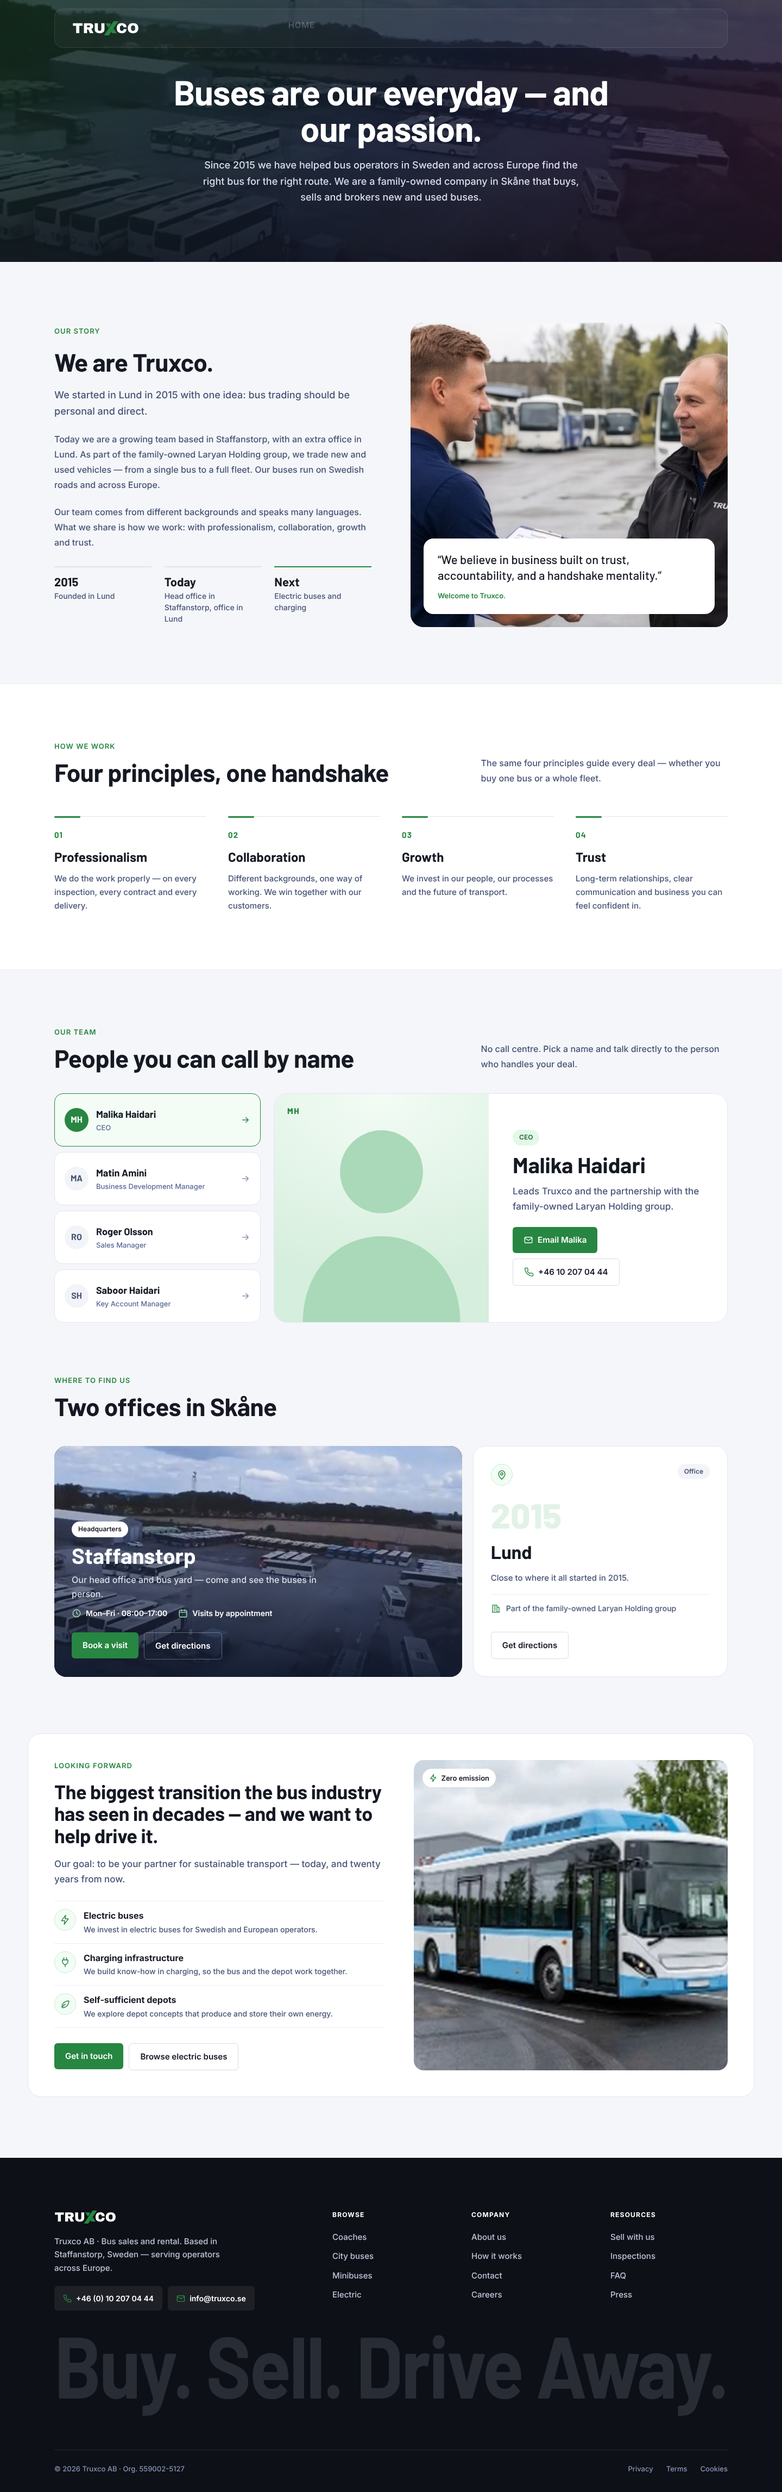
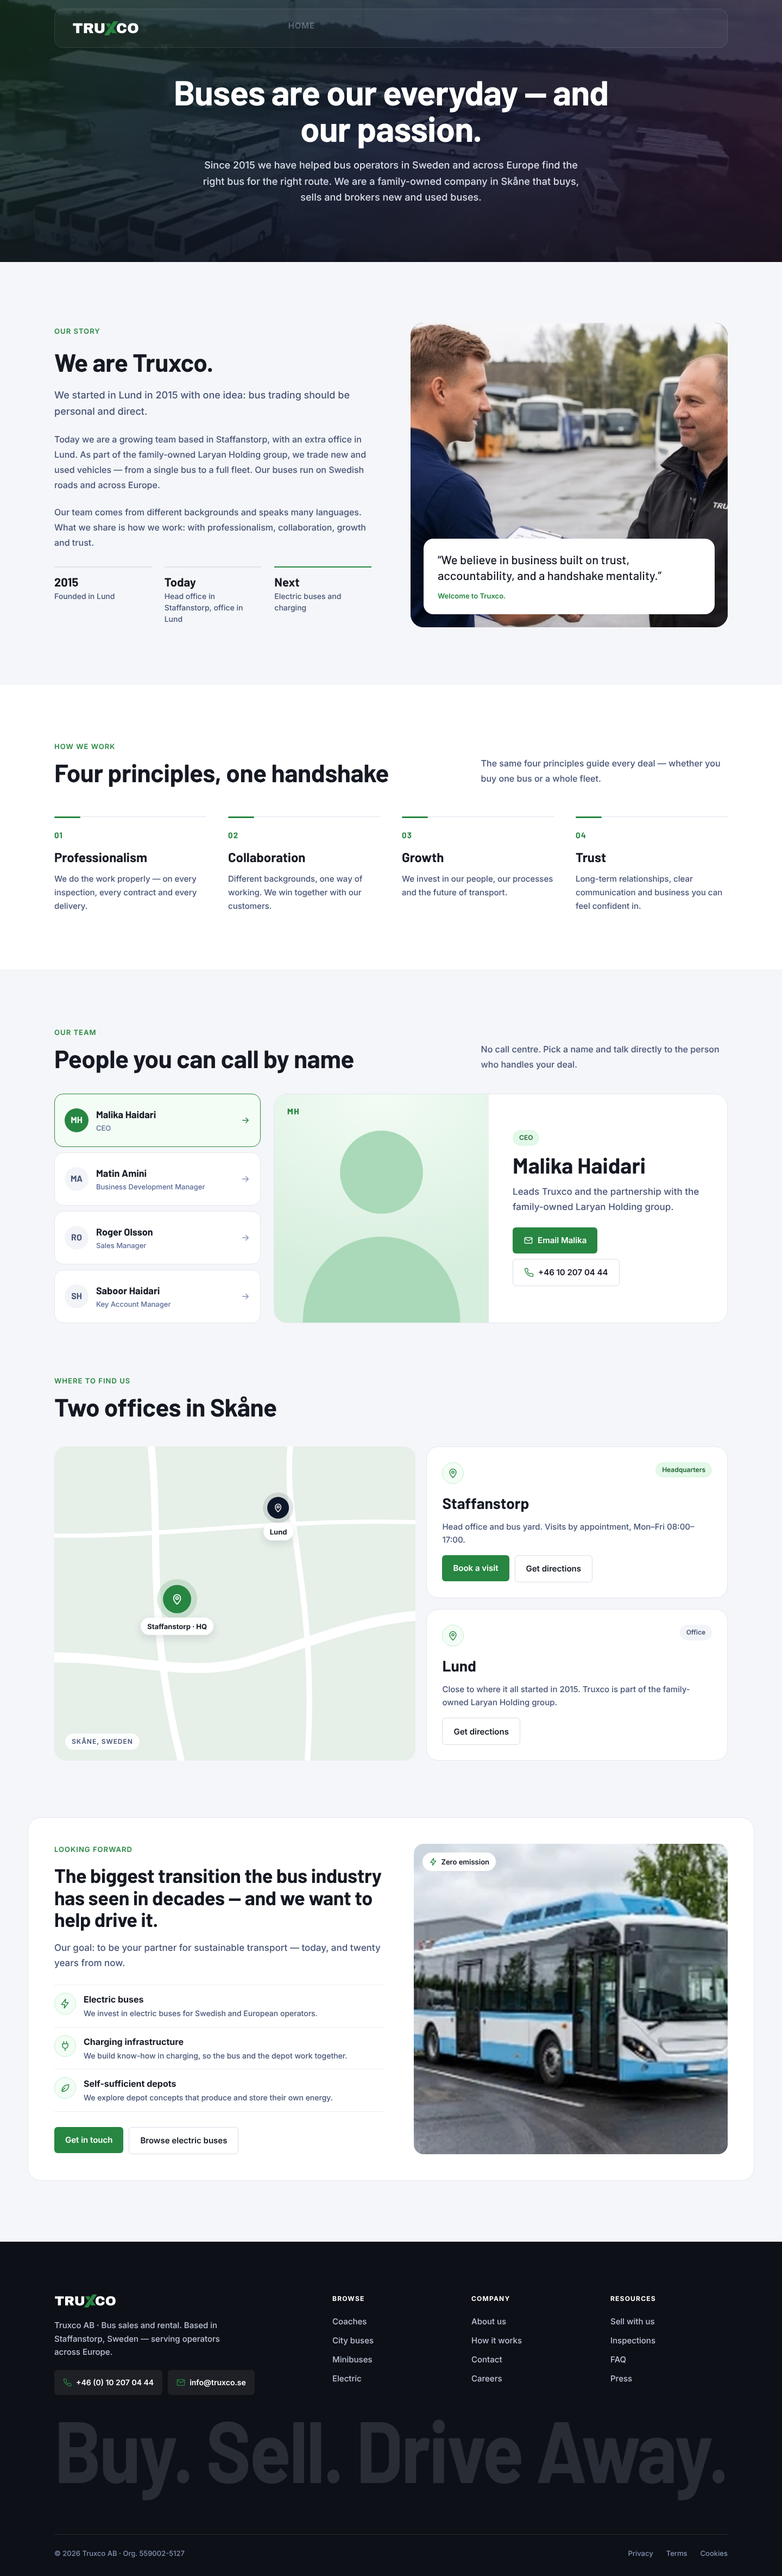
About us: offices section switched to map view (option C)
Claude-Session: https://claude.ai/code/session_01CJrfSMbtJkdqaRmDBKHX4E

diff --git a/truxco-design/website-v2/AboutUs.dc.html b/truxco-design/website-v2/AboutUs.dc.html
@@ -380,6 +380,25 @@ a{color:#3050A6}a:hover{color:#151923}
 .ofc-note{display:flex;gap:10px;align-items:center;font-size:14px;color:#475476;padding:14px 0;border-top:1px solid #ECEEF4;margin-top:8px}
 @media (max-width: 860px){.ofc-grid{grid-template-columns:minmax(0,1fr)}.ofc-hq{min-height:460px}}
 @media (max-width: 600px){.ofc-in,.ofc-lund{padding:24px}.ofc-in h3{font-size:32px}}
+
+.ofm-grid{display:grid;grid-template-columns:minmax(0,1.2fr) minmax(0,1fr);gap:20px}
+.ofm-map{position:relative;border-radius:22px;overflow:hidden;min-height:440px;background:#E6EFE8}
+.ofm-roads{position:absolute;inset:0;width:100%;height:100%}
+.ofm-pin{position:absolute;transform:translate(-50%,-100%);display:flex;flex-direction:column;align-items:center;gap:8px}
+.ofm-pd{width:52px;height:52px;border-radius:50%;background:#278641;display:flex;align-items:center;justify-content:center;box-shadow:0 0 0 10px rgba(39,134,65,.18);animation:ofmPing 2.4s ease-in-out infinite}
+.ofm-pd.small{width:40px;height:40px;background:#0E162A;box-shadow:0 0 0 8px rgba(14,22,42,.12);animation:none}
+@keyframes ofmPing{50%{box-shadow:0 0 0 16px rgba(39,134,65,.1)}}
+.ofm-pl{font-size:13px;font-weight:700;color:#151923;background:#FFFFFF;padding:6px 12px;border-radius:999px;box-shadow:0 6px 16px rgba(14,22,42,.12);white-space:nowrap}
+.ofm-region{position:absolute;left:20px;bottom:20px;font-size:12px;font-weight:600;letter-spacing:.08em;text-transform:uppercase;color:#475476;background:rgba(255,255,255,.88);padding:6px 12px;border-radius:999px}
+.ofm-list{display:flex;flex-direction:column;gap:20px}
+.ofm-row{flex:1;background:#FFFFFF;border:1px solid #E3E6EE;border-radius:22px;padding:28px;display:flex;flex-direction:column;gap:10px}
+.ofm-top{display:flex;justify-content:space-between;align-items:center;margin-bottom:4px}
+.ofm-row h3{margin:0;font-family:'Barlow',sans-serif;font-weight:700;font-size:28px;color:#151923}
+.ofm-row p{margin:0;font-size:15px;line-height:1.6;color:#475476}
+.ofm-row .ab-row{margin-top:auto;padding-top:6px}
+@media (prefers-reduced-motion: reduce){.ofm-pd{animation:none}}
+@media (max-width: 860px){.ofm-grid{grid-template-columns:minmax(0,1fr)}.ofm-map{min-height:320px}}
+@media (max-width: 600px){.ofm-row{padding:24px}}
 </style>
 </helmet>
 <div id="tx-root" style="position: relative; font-family: Inter, system-ui, sans-serif; color: #151923; background: #F5F6F9; font-size: 16px; font-weight: 500; line-height: 1.55">
@@ -511,12 +530,17 @@ a{color:#3050A6}a:hover{color:#151923}
 <section id="offices" class="ab-sec" aria-labelledby="ab-off-h" style="padding: 0 24px 104px">
 <div class="ab-wrap" style="display: flex; flex-direction: column; gap: 48px">
 <div style="display: flex; flex-direction: column; gap: 14px"><span class="ab-eyebrow">Where to find us</span><h2 id="ab-off-h" class="ab-h2">Two offices in Skåne</h2></div>
-<div class="ofc-grid">
-<article class="ofc-hq"><img src="/_blob/c412b4374d734066a683e1b2284738be" alt="The Truxco bus yard in Staffanstorp"><div aria-hidden="true" class="ofc-shade"></div>
-<div class="ofc-in"><span class="ofc-tagw">Headquarters</span><h3>Staffanstorp</h3><p>Our head office and bus yard — come and see the buses in person.</p>
-<div class="ofc-info"><span><svg aria-hidden="true" width="18" height="18" viewBox="0 0 24 24" fill="none" stroke="#9CE7B1" stroke-width="1.8" stroke-linecap="round" stroke-linejoin="round" style="flex: none"><circle cx="12" cy="12" r="9"></circle><path d="M12 7v5l3 2"></path></svg>Mon–Fri · 08:00–17:00</span><span><svg aria-hidden="true" width="18" height="18" viewBox="0 0 24 24" fill="none" stroke="#9CE7B1" stroke-width="1.8" stroke-linecap="round" stroke-linejoin="round" style="flex: none"><rect x="3" y="4.5" width="18" height="16.5" rx="2"></rect><path d="M3 9.5h18M8 2.5v4M16 2.5v4"></path></svg>Visits by appointment</span></div>
-<div class="ab-row" style="margin-top: 4px"><a class="ab-btn" href="Contact.dc.html#visit">Book a visit</a><a class="ofc-ghost" href="https://maps.google.com/?q=Staffanstorp,Sweden" target="_blank" rel="noopener">Get directions</a></div></div></article>
-<article class="ofc-lund"><div class="ofc-top"><span class="ab-ic"><svg aria-hidden="true" width="20" height="20" viewBox="0 0 24 24" fill="none" stroke="#278641" stroke-width="1.8" stroke-linecap="round" stroke-linejoin="round" style="flex: none"><path d="M12 22s7-6.2 7-12a7 7 0 0 0-14 0c0 5.8 7 12 7 12z"></path><circle cx="12" cy="10" r="2.6"></circle></svg></span><span class="ab-tag" style="background: #F2F4F8; color: #475476">Office</span></div><span class="ofc-year" aria-hidden="true">2015</span><h3>Lund</h3><p>Close to where it all started in 2015.</p><div class="ofc-note"><svg aria-hidden="true" width="18" height="18" viewBox="0 0 24 24" fill="none" stroke="#278641" stroke-width="1.8" stroke-linecap="round" stroke-linejoin="round" style="flex: none"><path d="M4 21V5a1 1 0 0 1 1-1h9a1 1 0 0 1 1 1v16M15 9h4a1 1 0 0 1 1 1v11M3 21h18M8 8h3M8 12h3M8 16h3"></path></svg>Part of the family-owned Laryan Holding group</div><div class="ab-row" style="margin-top: auto"><a class="ab-btn2" href="https://maps.google.com/?q=Lund,Sweden" target="_blank" rel="noopener">Get directions</a></div></article>
+<div class="ofm-grid">
+<div class="ofm-map" role="img" aria-label="Map showing the Truxco offices in Staffanstorp and Lund, Skåne">
+<svg class="ofm-roads" aria-hidden="true" viewBox="0 0 600 440" preserveAspectRatio="xMidYMid slice"><path d="M-20 300 C 120 280 220 330 320 300 S 520 220 640 240" stroke="#FFFFFF" stroke-width="14" fill="none"></path><path d="M180 -20 C 200 120 170 240 230 460" stroke="#FFFFFF" stroke-width="10" fill="none"></path><path d="M380 -20 C 360 100 420 200 400 460" stroke="#FFFFFF" stroke-width="8" fill="none"></path><path d="M-20 120 C 160 140 360 90 640 110" stroke="#FFFFFF" stroke-width="6" fill="none"></path></svg>
+<span class="ofm-pin" style="left: 62%; top: 30%"><span class="ofm-pd small"><svg aria-hidden="true" width="18" height="18" viewBox="0 0 24 24" fill="none" stroke="#FFFFFF" stroke-width="2" stroke-linecap="round" stroke-linejoin="round" style="flex: none"><path d="M12 22s7-6.2 7-12a7 7 0 0 0-14 0c0 5.8 7 12 7 12z"></path><circle cx="12" cy="10" r="2.6"></circle></svg></span><span class="ofm-pl">Lund</span></span>
+<span class="ofm-pin" style="left: 34%; top: 60%"><span class="ofm-pd"><svg aria-hidden="true" width="22" height="22" viewBox="0 0 24 24" fill="none" stroke="#FFFFFF" stroke-width="2" stroke-linecap="round" stroke-linejoin="round" style="flex: none"><path d="M12 22s7-6.2 7-12a7 7 0 0 0-14 0c0 5.8 7 12 7 12z"></path><circle cx="12" cy="10" r="2.6"></circle></svg></span><span class="ofm-pl">Staffanstorp · HQ</span></span>
+<span class="ofm-region">Skåne, Sweden</span>
+</div>
+<div class="ofm-list">
+<article class="ofm-row"><div class="ofm-top"><span class="ab-ic"><svg aria-hidden="true" width="20" height="20" viewBox="0 0 24 24" fill="none" stroke="#278641" stroke-width="1.8" stroke-linecap="round" stroke-linejoin="round" style="flex: none"><path d="M12 22s7-6.2 7-12a7 7 0 0 0-14 0c0 5.8 7 12 7 12z"></path><circle cx="12" cy="10" r="2.6"></circle></svg></span><span class="ab-tag">Headquarters</span></div><h3>Staffanstorp</h3><p>Head office and bus yard. Visits by appointment, Mon–Fri 08:00–17:00.</p><div class="ab-row"><a class="ab-btn" href="Contact.dc.html#visit">Book a visit</a><a class="ab-btn2" href="https://maps.google.com/?q=Staffanstorp,Sweden" target="_blank" rel="noopener">Get directions</a></div></article>
+<article class="ofm-row"><div class="ofm-top"><span class="ab-ic"><svg aria-hidden="true" width="20" height="20" viewBox="0 0 24 24" fill="none" stroke="#278641" stroke-width="1.8" stroke-linecap="round" stroke-linejoin="round" style="flex: none"><path d="M12 22s7-6.2 7-12a7 7 0 0 0-14 0c0 5.8 7 12 7 12z"></path><circle cx="12" cy="10" r="2.6"></circle></svg></span><span class="ab-tag" style="background: #F2F4F8; color: #475476">Office</span></div><h3>Lund</h3><p>Close to where it all started in 2015. Truxco is part of the family-owned Laryan Holding group.</p><div class="ab-row"><a class="ab-btn2" href="https://maps.google.com/?q=Lund,Sweden" target="_blank" rel="noopener">Get directions</a></div></article>
+</div>
 </div>
 </div>
 </section>
